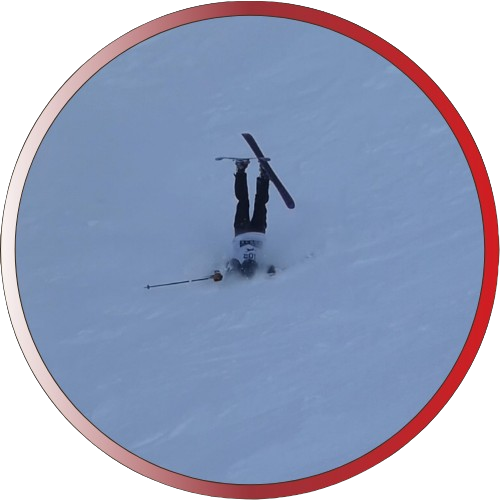
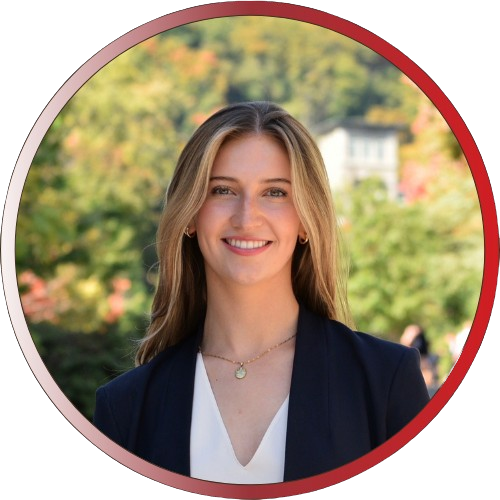
update 2026-2027 website at 3:30pm CET 26/08/26

diff --git a/data/events/2026-2027.js b/data/events/2026-2027.js
@@ -6,15 +6,6 @@ const path = (event) => `/images/events/2026-2027/${event}.png`;
 
 export default [
     {
-        photo: path('staytunedevent26'),
-        name: 'Stay Tuned',
-        datetime: 'TBA',
-        location: 'TBA',
-        description: "Coming soon...",
-        link: 'https://mcgillai.com/mais-202',
-
-    },
-    {
         photo: path('bootcamp26'),
         name: 'MAIS 202',
         datetime: 'January - April 2027',
@@ -63,5 +54,15 @@ export default [
         //description: "Applications for the 2025-2026 MAIS Executive Team are now open! If you're passionate about AI and eager to contribute to our vibrant community, we encourage you to apply. Join us in shaping the future of AI at McGill through exciting events, workshops, and initiatives. Don't miss this opportunity to make a meaningful impact and connect with like-minded individuals!",
         //update: 'Applications are closed for the 2026-2027 academic year. DM us on Instagram if you have any questions!',
         update: 'Interested in becoming our Podcast Producer? Contact us at mcgillaicontact@gmail.com.',
+    },
+
+    {
+        photo: path('staytunedevent26'),
+        name: 'Stay Tuned',
+        datetime: 'TBA',
+        location: 'TBA',
+        description: "Coming soon...",
+        link: 'https://mcgillai.com/mais-202',
+
     },
 ]

diff --git a/pages/gallery.js b/pages/gallery.js
@@ -48,16 +48,16 @@ const sections = [
         ],
     },
 
-    {
-        title: 'Social Events',
-        folder: 'socialevents',
+    // {
+    //     title: 'Social Events',
+    //     folder: 'socialevents',
 
-        cover: 'cover',
+    //     cover: 'cover',
 
-        photos: [
-            // add your filenames here
-        ],
-    },
+    //     photos: [
+    //         // add your filenames here
+    //     ],
+    // },
 ];
 
 export default function Gallery() {

diff --git a/pages/index.js b/pages/index.js
@@ -205,7 +205,7 @@ function Home() {
                         </p>
 
                         <a
-                            href="YOUR_MEDIUM_LINK"
+                            href="https://medium.com/mcgill-artificial-intelligence-review"
                             target="_blank"                 // links to medium blog --> WHERE IS IT??
                             rel="noopener noreferrer"
                             className={styles['announcement__link']}

diff --git a/pages/podcast.js b/pages/podcast.js
@@ -199,7 +199,7 @@ export default function Podcast() {
                 </p>
 
                 <a
-                    href="YOUR_MEDIUM_LINK"
+                    href="https://medium.com/mcgill-artificial-intelligence-review"
                     target="_blank"
                     rel="noopener noreferrer"
                     className={styles.mediumbutton}
